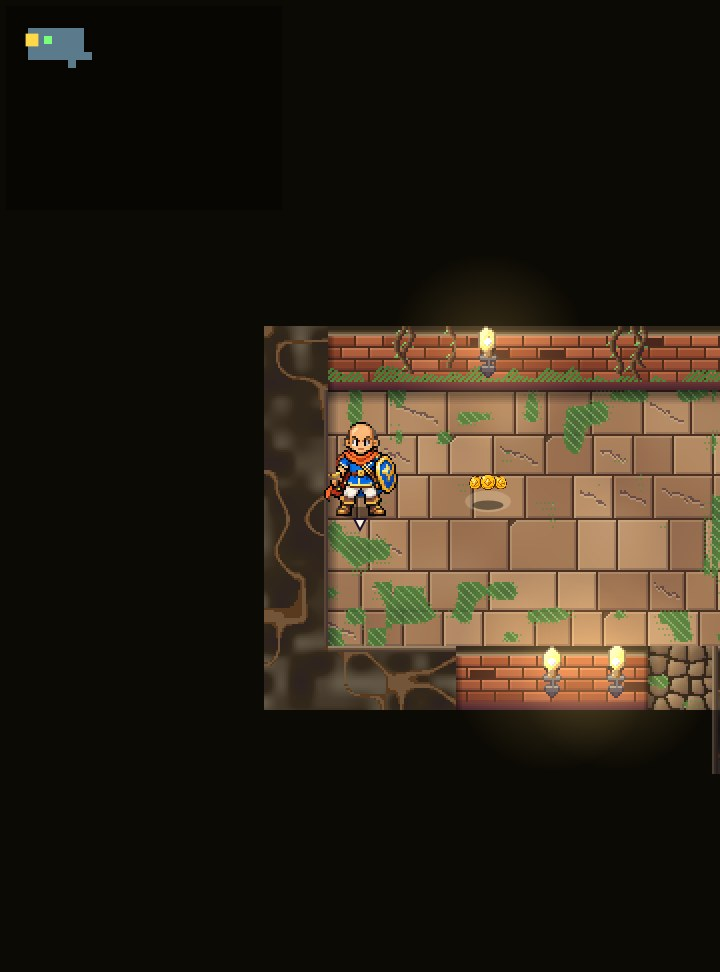
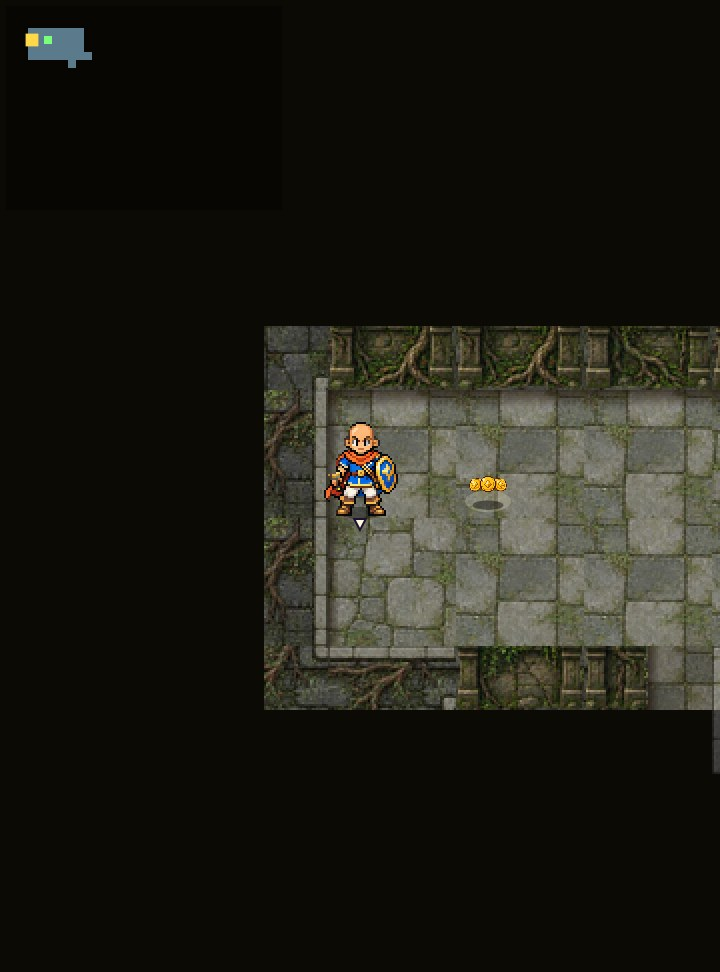
木の根の遺跡・地下の遺跡の背景を本番に反映
D.DUNGEON_ART に roots・ruins・ruins_deep。1マス幅の正面の壁は仮の絵。

Claude-Session: https://claude.ai/code/session_01HDLigwwegm7F2trSGLBQuS

Changed region(s): [[0.3667, 0.3086, 1.0, 0.8025]]

diff --git a/tools/dungeon-art-live-check.js b/tools/dungeon-art-live-check.js
@@ -1,4 +1,4 @@
-// 本番に反映した地域の背景の確認：node tools/dungeon-art-live-check.js [出力フォルダ]。普段の遊び方（つづきから）で1・3・4階を開き、1〜3階だけ素材の絵（D.DUNGEON_ART）・エラーなしを確かめて撮る（幅360・390・430）
+// 本番に反映した地域の背景の確認：node tools/dungeon-art-live-check.js [出力フォルダ]。普段の遊び方（つづきから）で1・4・8・12・14階を開き、反映した地域（レンガの回廊・木の根の遺跡・地下の遺跡）だけ素材の絵（D.DUNGEON_ART）・エラーなしを確かめて撮る（幅360・390・430）
 const { chromium } = (() => { try { return require('playwright'); } catch (e) { return require('/opt/node22/lib/node_modules/playwright'); } })();
 const http = require('http'), fs = require('fs'), path = require('path');
 const ROOT = path.join(__dirname, '..'), OUT = process.argv[2] || path.join(ROOT, 'docs', 'dungeon-art-v1', 'brick-live'); fs.mkdirSync(OUT, { recursive: true });
@@ -11,14 +11,14 @@ const srv = http.createServer((q, r) => { let f = path.join(ROOT, decodeURICompo
     const ctx = await b.newContext({ viewport: { width: W, height: H }, isMobile: true, hasTouch: true, deviceScaleFactor: 2 });
     const p = await ctx.newPage(); const errs = []; p.on('pageerror', (e) => errs.push(e.message));
     await p.goto('http://localhost:8851/'); await p.waitForTimeout(400);
-    for (const F of [1, 3, 4]) {
+    for (const F of [1, 4, 8, 12, 14]) {
       await p.evaluate((F) => { localStorage.clear(); const G = TS.Game, S = G.newState(), V = S.village; V.story.introDone = true; V.seenIntro = true;
         G.depart(S, 77); const r = S.run; while (r.floor < F) { r.player.x = r.stairs.x; r.player.y = r.stairs.y; G.act(S, { type: 'descend' }); } TS.Save.save(S); }, F);
       await p.reload(); await p.waitForTimeout(800); await p.tap('#btn-continue'); await p.waitForTimeout(1200);
       await p.evaluate(() => { while (TS.UI.modals.length) TS.UI.modals[TS.UI.modals.length - 1].close(); TS.UI.lockUntil = 0; });
       await p.waitForTimeout(600);
       const info = await p.evaluate(() => ({ th: TS.Game.themeOf(TS.UI.S.run), on: !!TS.Data.DUNGEON_ART[TS.Game.themeOf(TS.UI.S.run)] }));
-      const want = F <= 3;
+      const want = ['brick', 'roots', 'ruins', 'ruins_deep'].includes(info.th);
       console.log(W, F, info.th, info.on === want ? 'OK' : 'NG', errs.length ? errs.join('/') : 'エラーなし'); if (info.on !== want || errs.length) ng++;
       const c = await p.evaluate(() => { const e = document.getElementById('dungeon-canvas').getBoundingClientRect(); return { x: e.x, y: e.y, width: e.width, height: e.height }; });
       await p.screenshot({ path: path.join(OUT, `live_f${F}_${W}.jpg`), clip: c, quality: 88 });

diff --git a/js/data.js b/js/data.js
@@ -98,8 +98,9 @@
   D.FLAME_ROOM_PREVIEW = roomPreview('flamePreview', 718, 150, 365, 1536, 'tiles', { hazardOutline: true });
   D.BOSS_ROOM_PREVIEW = {};   // プレビューのときだけ { truevearn: 'TRUEVEARN_ROOM_PREVIEW' } など（確認の道具が切り替える）
   /* 通常ダンジョンの地域の背景の絵（ZIP dungeon_7themes_art_v1）を使う地域。{ brick: true } のように。
-   * 2026年10月21日：レンガの回廊（1〜3階）を本番に反映。ほかの地域はまだ今までのコードの絵。確認の道具 tools/dungeon-art-preview.js は before/after で切り替えて撮る */
-  D.DUNGEON_ART = { brick: true };
+   * 2026年10月21日：レンガの回廊（1〜3階）を本番に反映。10月22日：木の根の遺跡（4〜6階）・地下の遺跡（7〜14階）も反映（1マス幅の正面の壁は仮の絵）。
+   * ほかの地域はまだ今までのコードの絵。確認の道具 tools/dungeon-art-preview.js は before/after で切り替えて撮る */
+  D.DUNGEON_ART = { brick: true, roots: true, ruins: true, ruins_deep: true };
   /* 隠しダンジョン（2026年10月確定）：真大魔王バーンを倒したあと、30階の時空の亀裂から入る。
    * 31階から始まり、35階の竜人王バランまで。31〜34階は部屋の数が本編の約2倍（D.HIDDEN_MAP）。32〜34階は強敵（enemyMul、仮）。帰還の祠は無い。
    * 本編の31〜33階とは別の階（run.hidden）。帰りは帰還の巻物か、竜人王バランを倒したあとの帰還口

diff --git a/js/assets.js b/js/assets.js
@@ -183,7 +183,7 @@
     /* 通常ダンジョンの地域の背景（ZIP dungeon_7themes_art_v1 の原画を tools/make-dungeon-art.py で切り出し・縮小）。
      * 床 floor：64×64＝2×2マス。壁 wall：64×64＝2マス幅・2マス高（下が壁の正面、上が壁の上の段）。
      * 追加（brick-extra-v1）：壁の上面 top 64×64＝2×2マス、縁 rimW・rimE 10×64（左右の縁・2マス分）、rimN 64×10（下の壁の縁）、目地の角 joint 10×10。
-     * 使うかどうかは D.DUNGEON_ART（地域ごと。2026年10月21日：brick を本番に反映。ほかの地域は今までのコードの絵） */
+     * 使うかどうかは D.DUNGEON_ART（地域ごと。2026年10月21日 brick、22日 roots・ruins・ruins_deep を本番に反映。ほかの地域は今までのコードの絵） */
     dungeon: {
       brick: { floor: [0, 1, 2].map((i) => 'assets/dungeon/brick/floor_' + i + '.png'), wall: [0, 1].map((i) => 'assets/dungeon/brick/wall_' + i + '.png'), narrow: [0, 1].map((i) => 'assets/dungeon/brick/narrow_' + i + '.png'),
         top: [0, 1, 2, 3].map((i) => 'assets/dungeon/brick/top_' + i + '.png'), rimW: ['assets/dungeon/brick/rimW.png'], rimE: ['assets/dungeon/brick/rimE.png'], rimN: ['assets/dungeon/brick/rimN.png'], joint: ['assets/dungeon/brick/joint.png'] },

diff --git a/docs/DUNGEON_ART_V1.md b/docs/DUNGEON_ART_V1.md
@@ -11,10 +11,10 @@
 ## 地域と階（確定・2026年10月21日）
 | 階 | 地域（`D.THEMES` の名前） | 内部名 | 素材の絵 |
 |---|---|---|---|
-| 1〜3 | レンガの回廊 | brick | プレビュー中（このページ） |
-| 4〜6 | 木の根の遺跡 | roots | プレビュー中（第1回の追加原画。下） |
-| 7〜10 | 地下の遺跡 | ruins | プレビュー中（第1回の追加原画。下） |
-| 11〜15 | 地下の遺跡（奥） | ruins_deep（表示名は同じ「地下の遺跡」） | プレビュー中（地下の遺跡と同じ絵） |
+| 1〜3 | レンガの回廊 | brick | **本番**（2026年10月21日） |
+| 4〜6 | 木の根の遺跡 | roots | **本番**（2026年10月22日。第1回の追加原画。下） |
+| 7〜10 | 地下の遺跡 | ruins | **本番**（2026年10月22日。第1回の追加原画。下） |
+| 11〜15 | 地下の遺跡（奥） | ruins_deep（表示名は同じ「地下の遺跡」） | **本番**（地下の遺跡と同じ絵） |
 | 16〜20 | 水没した古代都市 | sunken | まだ |
 | 21〜25 | 地底の古代神殿（以前の「水晶の地下神殿」から改名） | crystal | まだ |
 | 26〜30 | 封印の最深部 | gold | まだ |
@@ -67,7 +67,7 @@
 ---
 # 第1回の追加原画（ZIP dungeon_part1 ＝ dungeon_batch1_roots_ruins_v2、2026年10月22日）：木の根の遺跡・地下の遺跡のプレビュー
 
-**本番はまだ今までの絵**（`D.DUNGEON_ART` は brick だけ）。確認の道具の間だけ切り替えて撮っている。
+**2026年10月22日：本番に反映**（`D.DUNGEON_ART` に roots・ruins・ruins_deep）。1マス幅の正面の壁は仮の絵のまま（下の「欲しい絵」が届いたら差し替え）。本番の確認は `node tools/dungeon-art-live-check.js`（1・4・8・12・14階、幅360・390・430、エラーなし）。
 
 - 原画：`assets/reference/dungeon-batch1-v2/`（真上から見た追加シート。原寸・無加工。README・manifest も同梱）。正面の壁と飾りは前回の原画（`sheets/02_roots.png`・`03_ruins.png`。同梱の再収録と同じファイル）。
 - 切り出し：`python3 -I tools/make-dungeon-art.py roots ruins` → `assets/dungeon/roots/`・`assets/dungeon/ruins/`（11〜14階の ruins_deep も ruins の絵）。
